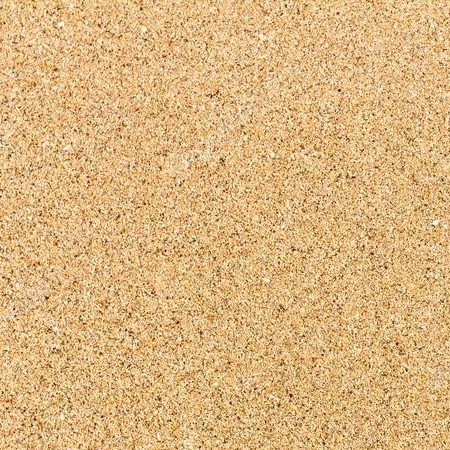
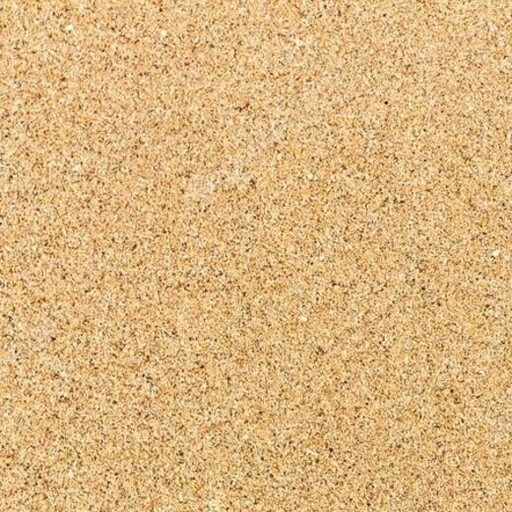
stage4 floor texture mapping

diff --git a/examples/js/Stage4.js b/examples/js/Stage4.js
@@ -75,9 +75,9 @@ function init4() {
     geometry.applyMatrix(new THREE.Matrix4().makeRotationX(-Math.PI / 2));
 
     material = new THREE.MeshLambertMaterial({ color: 0xDDDDDD });
-    var texture	= THREE.ImageUtils.loadTexture('images_stage/rocks.jpg');
+    var texture	= THREE.ImageUtils.loadTexture('images_stage/sand.jpg');
     texture.wrapS = texture.wrapT = THREE.RepeatWrapping;
-    texture.repeat.set( 50, 50 );
+    texture.repeat.set( 150, 150 );
     var material_ground	= new THREE.MeshPhongMaterial({
         map	: texture,
         bumpMap	: texture,
